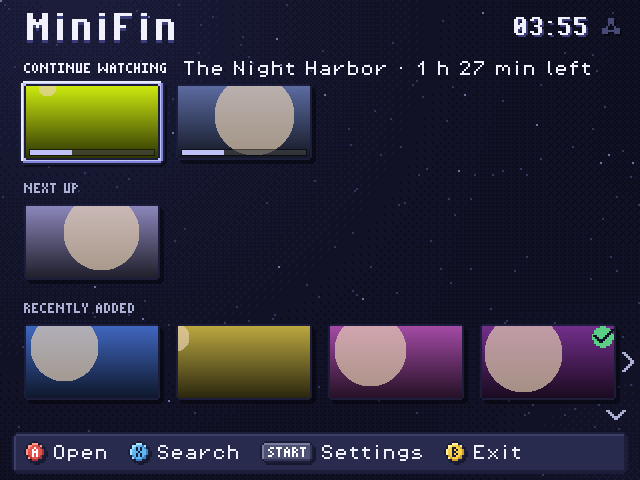
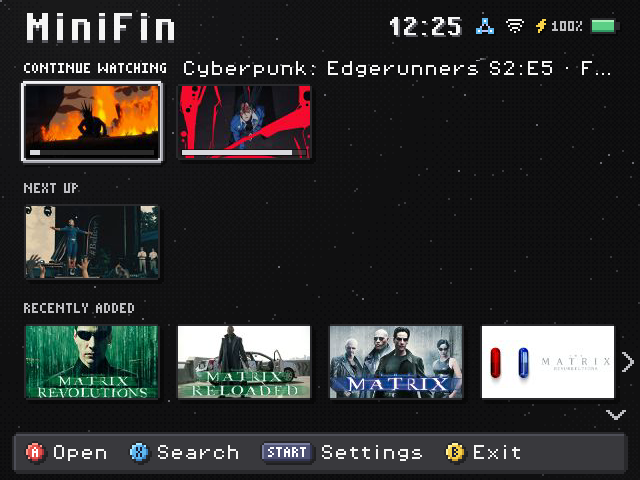
Fix the player crash in libpadsp's open; real README screenshots

diff --git a/player/src/main.c b/player/src/main.c
@@ -6,6 +6,7 @@
  * stdout: dur, decoder, pos, paused, end, quit, error lines (see README).
  * Copyright (C) 2026 Zaki. GPL-2.0-or-later. */
 #include <signal.h>
+#include <ucontext.h>
 #include <stdio.h>
 #include <stdlib.h>
 #include <string.h>
@@ -17,8 +18,24 @@
 
 static void on_stop(int sig) { player_request_quit(); }
 
-static void on_crash(int sig)
+/* Writes "minifin-player: crash sig N pc 0x... lr 0x... addr 0x..." to
+ * stderr (async-signal-safe), so a crash on the device can be placed with
+ * addr2line against build/minifin-player. */
+static void hex(char *o, unsigned long v)
 {
+    for (int i = 7; i >= 0; i--, v >>= 4) o[i] = "0123456789abcdef"[v & 15];
+}
+
+static void on_crash(int sig, siginfo_t *si, void *ctx)
+{
+    char m[] = "minifin-player: crash sig 00 pc 0x00000000 lr 0x00000000 addr 0x00000000\n";
+    ucontext_t *uc = ctx;
+    m[26] = (char)('0' + sig / 10);
+    m[27] = (char)('0' + sig % 10);
+    hex(m + 34, uc->uc_mcontext.arm_pc);
+    hex(m + 48, uc->uc_mcontext.arm_lr);
+    hex(m + 64, (unsigned long)si->si_addr);
+    if (write(2, m, sizeof m - 1) < 0) {}
     player_emergency_cleanup();
     signal(sig, SIG_DFL);
     raise(sig);
@@ -55,8 +72,9 @@ int main(int argc, char **argv)
     sa.sa_handler = on_alarm;
     sigaction(SIGALRM, &sa, NULL);
     signal(SIGPIPE, SIG_IGN);
-    sa.sa_handler = on_crash;
-    sa.sa_flags = SA_RESETHAND;
+    sa.sa_handler = NULL;
+    sa.sa_sigaction = on_crash;
+    sa.sa_flags = SA_RESETHAND | SA_SIGINFO;
     sigaction(SIGSEGV, &sa, NULL);
     sigaction(SIGBUS, &sa, NULL);
     sigaction(SIGILL, &sa, NULL);

diff --git a/player/src/audio.c b/player/src/audio.c
@@ -52,6 +52,12 @@ AOut *aout_open(int rate)
         free(a);
         return NULL;
     }
+    /* libpadsp looks up the real open() on its first call for an ordinary
+     * path, but its /dev/dsp path calls through that pointer unchecked: as
+     * the first call (it is dlopen()ed here, not preloaded) it jumps to NULL.
+     * An ordinary open first fills the pointer in. */
+    v = a->p_open("/dev/null", O_RDONLY);
+    if (v >= 0) a->p_close(v);
     /* libpadsp prints notes ("new pipe size: ...") on stdout, which is our
      * protocol: point stdout at stderr while it opens. */
     fflush(stdout);

diff --git a/README.md b/README.md
@@ -8,7 +8,7 @@
 
 An unofficial [Jellyfin](https://jellyfin.org) client for movies and shows on a Miyoo Mini Plus. It is part of [MiniDeck](https://github.com/zakijss/MiniDeck). Music stays in [MiniTape](https://github.com/zakijss/MiniTape).
 
-<p align="center"><img src="docs/home.png" alt="MiniFin's home screen: Continue Watching, Next Up and Recently Added rails of posters" width="32%"> <img src="docs/library.png" alt="A movie library as a poster grid, with the selected film's year and length below" width="32%"> <img src="docs/movie.png" alt="A film's page: poster, facts, time left, and Resume, Play from the start, Audio and Subtitles rows" width="32%"></p>
+<p align="center"><img src="docs/home.png" alt="MiniFin's home screen: Continue Watching, Next Up, and Recently Added showing the Matrix films" width="32%"> <img src="docs/library.png" alt="A Movies library of 14 films as a poster grid, with Akira selected and its year, length and rating below" width="32%"> <img src="docs/movie.png" alt="Excalibur's page: poster, facts, a note that it last played with minifin-player in hardware, and Play, Subtitles and Download rows" width="32%"></p>
 
 - Finds your server without typing: servers on the Wi-Fi answer Jellyfin's discovery broadcast, and MiniFin asks each device on your tailnet (port 8096, and HTTPS on 443, 8920 and 8084). You can still pick a tailnet device or type the address.
 - Signs in with Quick Connect: MiniFin shows a six-digit code, you approve it in Jellyfin on your phone, and you're in. A user name and password work too. Only the sign-in token is kept, sealed with the device key; the password is never stored.

diff --git a/CHANGELOG.md b/CHANGELOG.md
@@ -4,6 +4,17 @@ All notable changes are listed here. The format follows
 [Keep a Changelog](https://keepachangelog.com/en/1.1.0/), and versions follow
 [Semantic Versioning](https://semver.org/).
 
+## [Unreleased]
+
+### Fixed
+
+- minifin-player no longer crashes as a video starts. Onion's audio library (libpadsp) jumps to a null pointer when its first call opens /dev/dsp, which is always the case when it is loaded with dlopen() rather than preloaded; the player now opens /dev/null through it first. Before this, every video fell back to ffplay, or went back to its page when the crash came after playback had started.
+
+### Changed
+
+- minifin-player writes the crash address to its log on a crash.
+- The README screenshots are from a real device and server.
+
 ## [1.0.1] - 2026-11-03
 
 ### Fixed
